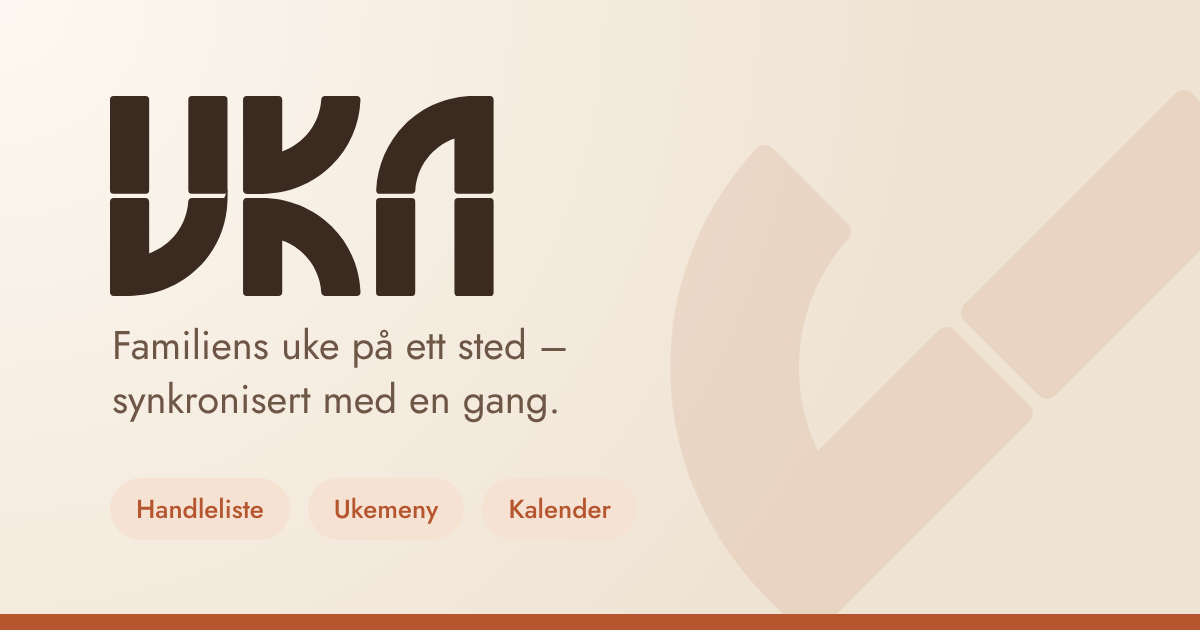
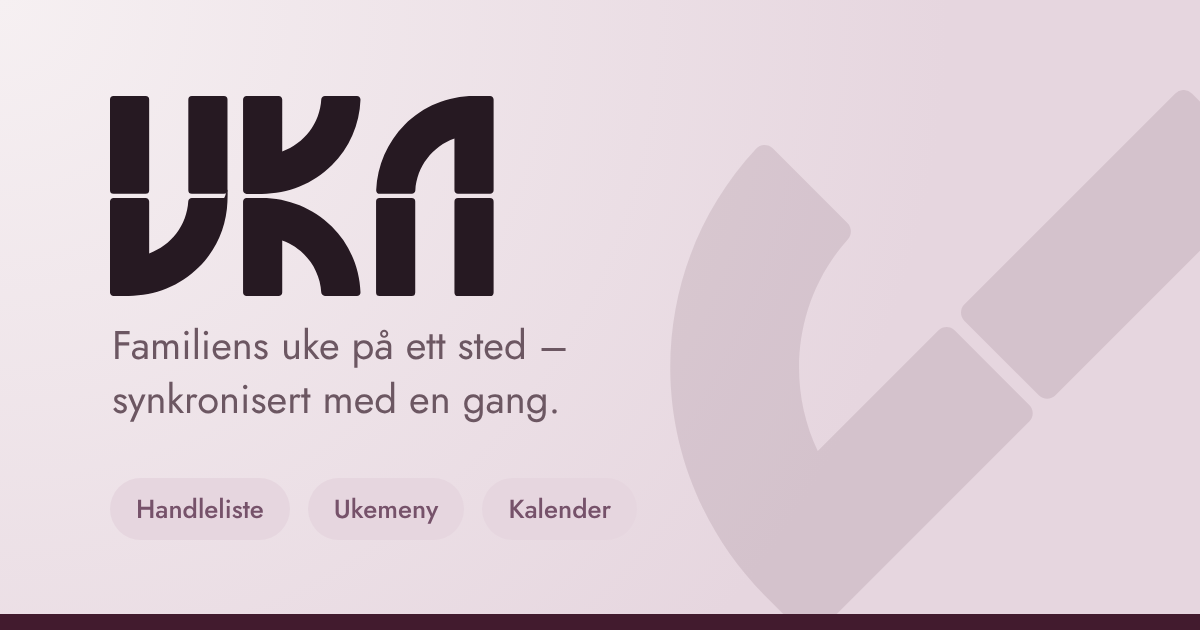
Delingsbilde, logofil og alle appikoner i Pion-farger
Claude-Session: https://claude.ai/code/session_01B8mfHcXUGkCFza3HKBksXZ

diff --git a/public/index.html b/public/index.html
@@ -12,24 +12,24 @@
   <meta property="og:description" content="Handleliste, ukemeny og kalender som hele familien deler – synkronisert med en gang.">
   <meta property="og:locale" content="nb_NO">
   <meta property="og:url" content="/">
-  <meta property="og:image" content="/og-image.png">
+  <meta property="og:image" content="/og-image.png?v=pion">
   <meta property="og:image:width" content="1200">
   <meta property="og:image:height" content="630">
   <meta property="og:image:alt" content="Uka-logoen: ordet UKA med en avkrysningshake i K-en">
   <meta name="twitter:card" content="summary_large_image">
   <meta name="twitter:title" content="Uka – familiens uke på ett sted">
   <meta name="twitter:description" content="Handleliste, ukemeny og kalender som hele familien deler – synkronisert med en gang.">
-  <meta name="twitter:image" content="/og-image.png">
+  <meta name="twitter:image" content="/og-image.png?v=pion">
   <meta name="theme-color" content="#ece4e6" media="(prefers-color-scheme: light)">
   <meta name="theme-color" content="#421b2e" media="(prefers-color-scheme: dark)">
   <meta name="apple-mobile-web-app-capable" content="yes">
   <meta name="mobile-web-app-capable" content="yes">
   <meta name="apple-mobile-web-app-status-bar-style" content="default">
   <meta name="apple-mobile-web-app-title" content="Uka">
-  <link rel="apple-touch-icon" href="icon-180.png?v=pion">
-  <link rel="icon" href="icon.svg?v=pion" type="image/svg+xml">
-  <link rel="icon" href="favicon-32.png?v=pion" type="image/png" sizes="32x32">
-  <link rel="manifest" href="manifest.webmanifest?v=pion">
+  <link rel="apple-touch-icon" href="icon-180.png?v=pion2">
+  <link rel="icon" href="icon.svg?v=pion2" type="image/svg+xml">
+  <link rel="icon" href="favicon-32.png?v=pion2" type="image/png" sizes="32x32">
+  <link rel="manifest" href="manifest.webmanifest?v=pion2">
   <link rel="preload" href="fonts/jost-latin-wght-normal.woff2" as="font" type="font/woff2" crossorigin>
   <link rel="stylesheet" href="style.css">
   <link rel="stylesheet" href="restefest/komponent.css">

diff --git a/public/restefest/oppskrift.html b/public/restefest/oppskrift.html
@@ -6,7 +6,7 @@
   <title>Oppskrift – Restefest</title>
   <meta name="theme-color" content="#ece4e6" media="(prefers-color-scheme: light)">
   <meta name="theme-color" content="#421b2e" media="(prefers-color-scheme: dark)">
-  <link rel="icon" href="/icon.svg?v=pion" type="image/svg+xml">
+  <link rel="icon" href="/icon.svg?v=pion2" type="image/svg+xml">
   <link rel="stylesheet" href="restefest.css">
   <style>
     .hero { width: 100%; aspect-ratio: 4 / 3; object-fit: cover; border-radius: 16px; background: var(--accent-soft); display: block; }

diff --git a/public/restefest/index.html b/public/restefest/index.html
@@ -9,7 +9,7 @@
   <meta property="og:description" content="Skriv inn restene dine, så finner Restefest norske oppskrifter som bruker dem.">
   <meta name="theme-color" content="#ece4e6" media="(prefers-color-scheme: light)">
   <meta name="theme-color" content="#421b2e" media="(prefers-color-scheme: dark)">
-  <link rel="icon" href="/icon.svg?v=pion" type="image/svg+xml">
+  <link rel="icon" href="/icon.svg?v=pion2" type="image/svg+xml">
   <link rel="stylesheet" href="restefest.css">
   <link rel="stylesheet" href="komponent.css">
 </head>

diff --git a/public/sw.js b/public/sw.js
@@ -15,7 +15,7 @@ self.addEventListener("push", (e) => {
     body: d.body || "",
     tag: d.tag || undefined,
     renotify: !!d.tag,
-    icon: "/icon-192.png?v=pion",
+    icon: "/icon-192.png?v=pion2",
     badge: "/badge-96.png",
     lang: "nb",
     data: { url: d.url || "/" },
